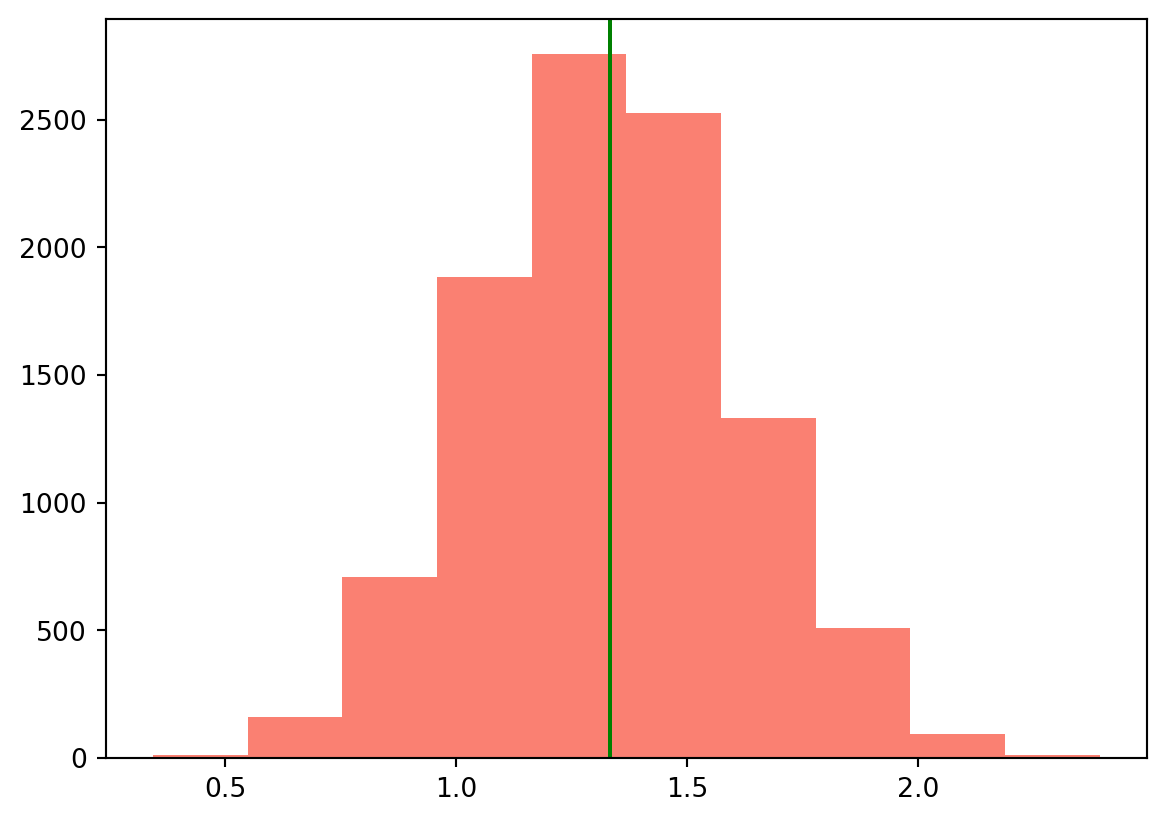
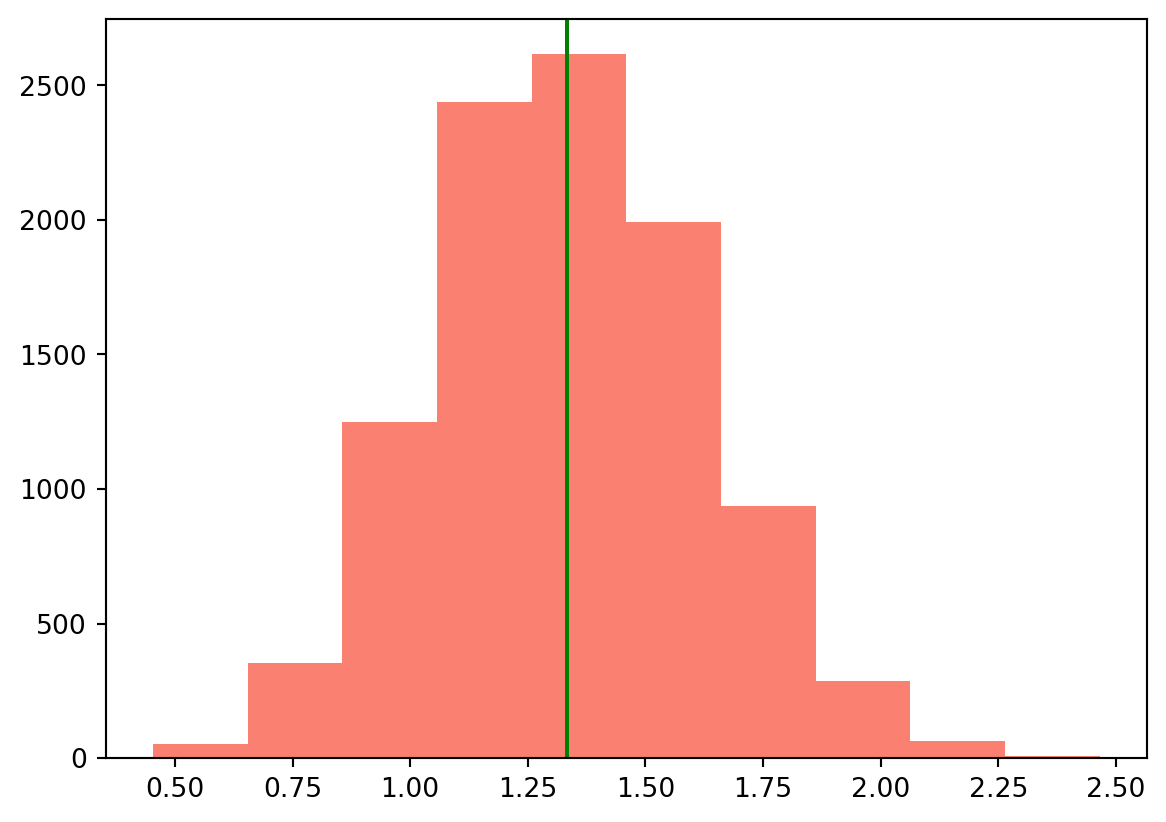
,

diff --git a/docs/posts/hw4.html b/docs/posts/hw4.html
@@ -178,7 +178,7 @@ pre > code.sourceCode > span > a:first-child::before { text-decoration: underlin
 <p>표본 분산 계산 시 왜 n-1로 나누는지 알아보도록 하겠습니다.</p>
 <p>균일분포 (3, 7)에서 20개의 표본을 뽑아서 분산을 2가지 방법으로 추정해보세요.</p>
 <p>n-1로 나눈 것을 s_2, n으로 나눈 것을 k_2로 정의하고, s_2의 분포와 k_2의 분포를 그려주세요! (10000개 사용) 각 분포 그래프에 모분산의 위치에 녹색 막대를 그려주세요. 결과를 살펴보고, 왜 n-1로 나눈 것을 분산을 추정하는 지표로 사용하는 것이 타당한지 써주세요!</p>
-<div id="44cce3f0" class="cell" data-execution_count="1">
+<div id="4ab65703" class="cell" data-execution_count="1">
 <div class="sourceCode cell-code" id="cb1"><pre class="sourceCode python code-with-copy"><code class="sourceCode python"><span id="cb1-1"><a href="#cb1-1" aria-hidden="true" tabindex="-1"></a><span class="im">import</span> numpy <span class="im">as</span> np</span>
 <span id="cb1-2"><a href="#cb1-2" aria-hidden="true" tabindex="-1"></a><span class="im">from</span> scipy.stats <span class="im">import</span> uniform</span>
 <span id="cb1-3"><a href="#cb1-3" aria-hidden="true" tabindex="-1"></a><span class="im">import</span> seaborn <span class="im">as</span> sns</span>
@@ -214,7 +214,7 @@ pre > code.sourceCode > span > a:first-child::before { text-decoration: underlin
 <pre><code>&lt;Figure size 672x480 with 0 Axes&gt;</code></pre>
 </div>
 </div>
-<div id="95c7347c" class="cell" data-execution_count="2">
+<div id="58078925" class="cell" data-execution_count="2">
 <div class="sourceCode cell-code" id="cb3"><pre class="sourceCode python code-with-copy"><code class="sourceCode python"><span id="cb3-1"><a href="#cb3-1" aria-hidden="true" tabindex="-1"></a>mo_var <span class="op">=</span> uniform.var(loc<span class="op">=</span><span class="dv">3</span>,scale<span class="op">=</span><span class="dv">4</span>)</span>
 <span id="cb3-2"><a href="#cb3-2" aria-hidden="true" tabindex="-1"></a>plt.hist(k_2_list, color <span class="op">=</span> <span class="st">"salmon"</span>)</span>
 <span id="cb3-3"><a href="#cb3-3" aria-hidden="true" tabindex="-1"></a>plt.axvline(x_var, color<span class="op">=</span><span class="st">"red"</span>)</span>
@@ -231,22 +231,22 @@ pre > code.sourceCode > span > a:first-child::before { text-decoration: underlin
 <pre><code>&lt;Figure size 672x480 with 0 Axes&gt;</code></pre>
 </div>
 </div>
-<div id="6d6d9faa" class="cell" data-execution_count="3">
+<div id="47b58597" class="cell" data-execution_count="3">
 <div class="sourceCode cell-code" id="cb5"><pre class="sourceCode python code-with-copy"><code class="sourceCode python"><span id="cb5-1"><a href="#cb5-1" aria-hidden="true" tabindex="-1"></a>np.mean(s_2_list) </span></code><button title="Copy to Clipboard" class="code-copy-button"><i class="bi"></i></button></pre></div>
 <div class="cell-output cell-output-display" data-execution_count="3">
-<pre><code>np.float64(1.335074234648122)</code></pre>
+<pre><code>np.float64(1.3361759092511534)</code></pre>
 </div>
 </div>
-<div id="6beec2c5" class="cell" data-execution_count="4">
+<div id="a0ffd030" class="cell" data-execution_count="4">
 <div class="sourceCode cell-code" id="cb7"><pre class="sourceCode python code-with-copy"><code class="sourceCode python"><span id="cb7-1"><a href="#cb7-1" aria-hidden="true" tabindex="-1"></a>np.mean(k_2_list)</span></code><button title="Copy to Clipboard" class="code-copy-button"><i class="bi"></i></button></pre></div>
 <div class="cell-output cell-output-display" data-execution_count="4">
-<pre><code>np.float64(1.268320522915716)</code></pre>
+<pre><code>np.float64(1.2693671137885958)</code></pre>
 </div>
 </div>
 <ol start="3" type="1">
 <li>그래프 상으론 차이를 잘 모르겠지만 두 결과 값과</li>
 </ol>
-<div id="e0d04d7e" class="cell" data-execution_count="5">
+<div id="d5312ca5" class="cell" data-execution_count="5">
 <div class="sourceCode cell-code" id="cb9"><pre class="sourceCode python code-with-copy"><code class="sourceCode python"><span id="cb9-1"><a href="#cb9-1" aria-hidden="true" tabindex="-1"></a>x_var <span class="op">=</span> uniform.var(<span class="dv">3</span>,<span class="dv">4</span>)</span>
 <span id="cb9-2"><a href="#cb9-2" aria-hidden="true" tabindex="-1"></a>x_var</span></code><button title="Copy to Clipboard" class="code-copy-button"><i class="bi"></i></button></pre></div>
 <div class="cell-output cell-output-display" data-execution_count="5">

diff --git a/docs/blog.html b/docs/blog.html
@@ -177,7 +177,7 @@ window.Quarto = {
 <!-- margin-sidebar -->
     <div id="quarto-margin-sidebar" class="sidebar margin-sidebar">
         
-    <h5 class="quarto-listing-category-title">Categories</h5><div class="quarto-listing-category category-default"><div class="category" data-category="">All <span class="quarto-category-count">(2)</span></div></div></div>
+    <h5 class="quarto-listing-category-title">Categories</h5><div class="quarto-listing-category category-default"><div class="category" data-category="">All <span class="quarto-category-count">(3)</span></div></div></div>
 <!-- main -->
 <main class="content" id="quarto-document-content">
 
@@ -256,6 +256,35 @@ window.Quarto = {
 </div>
 <div class="metadata">
 <p><a href="./posts/hw4.html" class="no-external"></a></p><a href="./posts/hw4.html" class="no-external">
+</a>
+</div>
+</div>
+<div class="quarto-post image-right" data-index="2" data-listing-file-modified-sort="1722348545233" data-listing-reading-time-sort="2" data-listing-word-count-sort="302">
+<div class="thumbnail">
+<p><a href="./posts/hw5.html" class="no-external"></a></p><a href="./posts/hw5.html" class="no-external">
+<p class="card-img-top"><img src="posts\hw5_files\figure-html\cell-3-output-1.png"  class="thumbnail-image card-img"/></p>
+</a><p><a href="./posts/hw5.html" class="no-external"></a></p>
+</div>
+<div class="body">
+<h3 class="no-anchor listing-title">
+<a href="./posts/hw5.html" class="no-external">hw5</a>
+</h3>
+<div class="listing-subtitle">
+<a href="./posts/hw5.html" class="no-external"></a>
+</div>
+<div class="listing-description">
+<a href="./posts/hw5.html" class="no-external">
+<div class="sourceCode cell-code" id="cb1"><pre class="sourceCode python code-with-copy"><code class="sourceCode python"><span id="cb1-1"><span class="im">import</span> pandas <span class="im">as</span> pd</span>
+<span id="cb1-2"><span class="im">import</span> numpy <span class="im">as</span> np</span>
+<span id="cb1-3"><span class="im">import</span> seaborn <span class="im">as</span> sns    </span>
+<span id="cb1-4"><span class="im">import</span> matplotlib.pyplot <span class="im">as</span> plt    </span>
+<span id="cb1-5"><span class="im">import</span> math</span>
+<span id="cb1-6"><span class="im">from</span> scipy.stats <span class="im">import</span> norm</span>
+<span id="cb1-7">raw_welfare <span class="op">=</span> pd.read_spss(<span class="st">"Kow…</span></span><span id="cb1-8"></span><span id="cb1-9"><span class="op"></span></span><span id="cb1-10"></span><span id="cb1-11"></span><span id="cb1-12"></span><span id="cb1-13"></span><span id="cb1-14"><span class="op"></span></span><span id="cb1-15"><span class="st"></span><span class="st"></span></span><span id="cb1-16"><span class="st"></span><span class="st"></span></span><span id="cb1-17"><span class="st"></span><span class="st"></span></span><span id="cb1-18"><span class="st"></span><span class="st"></span></span><span id="cb1-19"><span class="st"></span><span class="st"></span></span><span id="cb1-20"><span class="st"></span><span class="st"></span></span><span id="cb1-21"><span class="st"></span><span class="st"></span><span class="op"></span><span class="va"></span></span><span id="cb1-22"></span><span id="cb1-23"><span class="op"></span><span class="st"></span><span class="st"></span><span class="st"></span><span class="op"></span></span><span id="cb1-24"><span class="st"></span><span class="st"></span><span class="st"></span><span class="st"></span></span><span id="cb1-25"></span><span id="cb1-26"></span></code></pre></div><div class="cell-output cell-output-display" data-execution_count="1"><pre><code></code></pre></div></a>
+</div>
+</div>
+<div class="metadata">
+<p><a href="./posts/hw5.html" class="no-external"></a></p><a href="./posts/hw5.html" class="no-external">
 </a>
 </div>
 </div>
